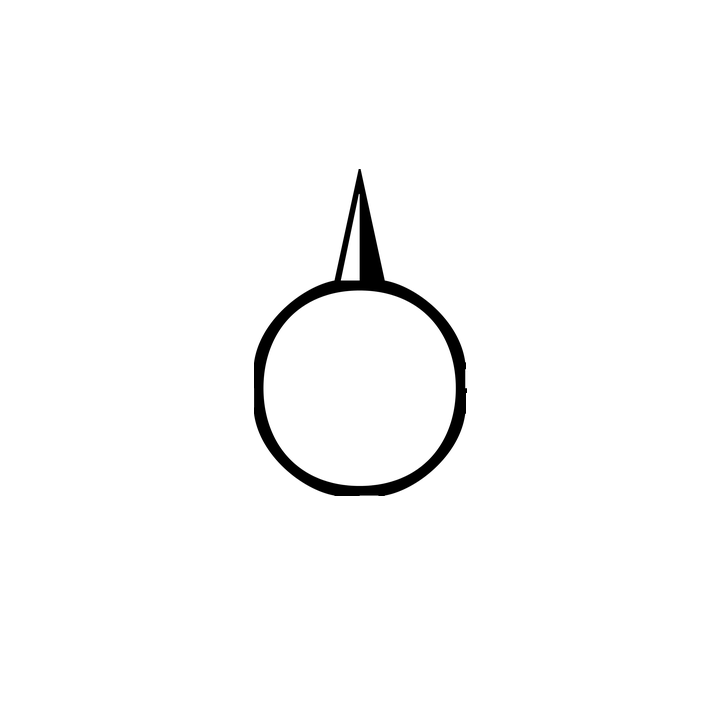
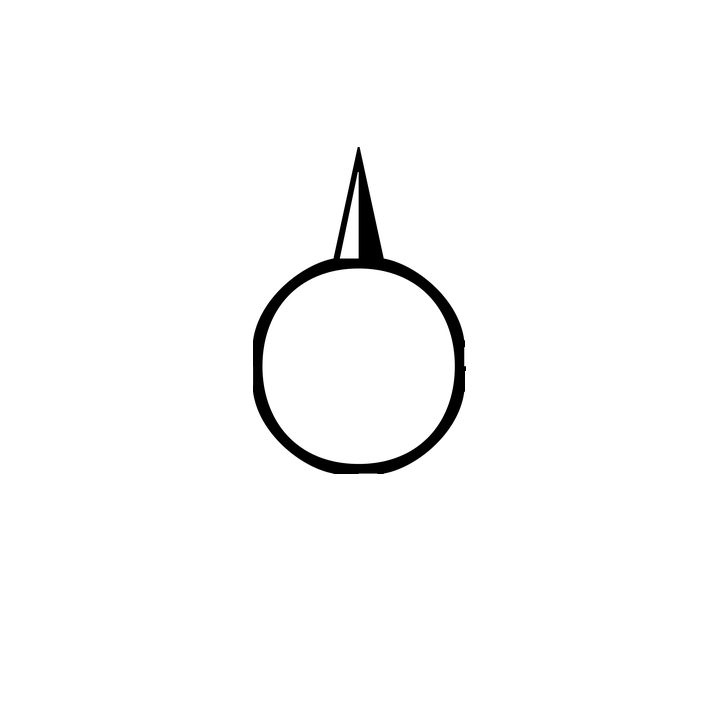
Further corrected wind rose - adjusted the PNG so that the cenre of the rose was in the centre of the image then alligned text with the centre of the rose

Changed region(s): [[0.338, 0.2142, 0.676, 0.7038]]

diff --git a/weather/weather_demo.py b/weather/weather_demo.py
@@ -533,7 +533,7 @@ def generateStatusBar(self, win, renderer, modeltime, wind_u, wind_v, bar_width,
         win.views['StatusLine'].GetScene().AddItem(generateCompassRose(bar_width*0.399,bar_height*0.265))
         win.views['StatusLine'].GetScene().AddItem(generateCompassRose(bar_width*0.399,bar_height*0.0886))
         win.compass2_hand=generateWindDirectionHand(bar_width*0.4166,bar_height*0.0886, self.obs_wind_dir)
-        win.compass2_strength=generateCompassStength(bar_width*0.62, bar_height*0.1568, self.obs_wind_strength)
+        win.compass2_strength=generateCompassStength(bar_width*0.605, bar_height*0.1518, self.obs_wind_strength)
         win.views['StatusLine'].GetScene().AddItem(win.compass2_hand)
         win.views['StatusLine'].GetScene().AddItem(win.compass2_strength)
         win.bar_width=bar_width
@@ -560,7 +560,7 @@ def generateStatusBar(self, win, renderer, modeltime, wind_u, wind_v, bar_width,
     if (self.wind_min > win_strength): self.wind_min=win_strength
     if (self.wind_max < win_strength): self.wind_max=win_strength
     win.compass1_hand=generateWindDirectionHand(bar_width*0.4166, bar_height*0.2658, win_direction)
-    win.compass1_strength=generateCompassStength(bar_width*0.62, bar_height*0.3321, win_strength)
+    win.compass1_strength=generateCompassStength(bar_width*0.605, bar_height*0.3291, win_strength)
     win.views['StatusLine'].GetScene().AddItem(win.compass1_hand)
     win.views['StatusLine'].GetScene().AddItem(win.compass1_strength)
 
@@ -613,7 +613,7 @@ def generateCompassRose(xpos, ypos):
 
 def generateWindDirectionHand(xpos, ypos, wind_angle):
     imageReader = vtk.vtkPNGReader()
-    imageReader.SetFileName("wind_compass_hand.png")
+    imageReader.SetFileName("wind_compass_hand2.png")
     imageReader.Update()
 
     imageResizer=vtk.vtkImageResize()
